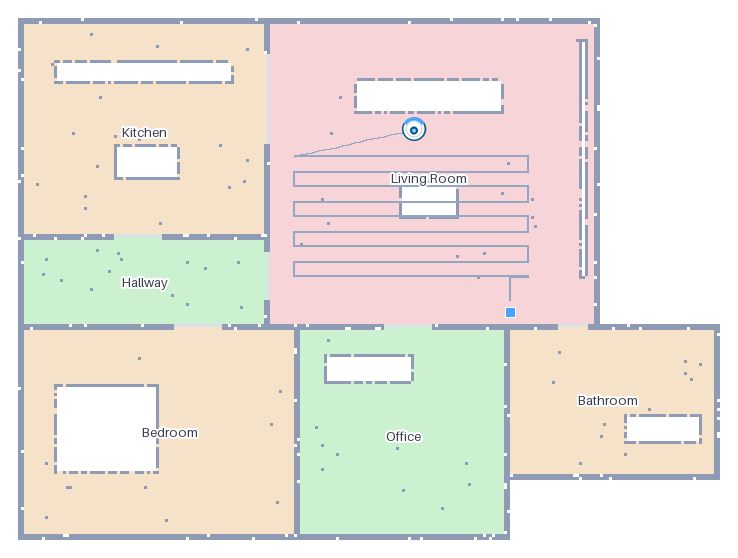
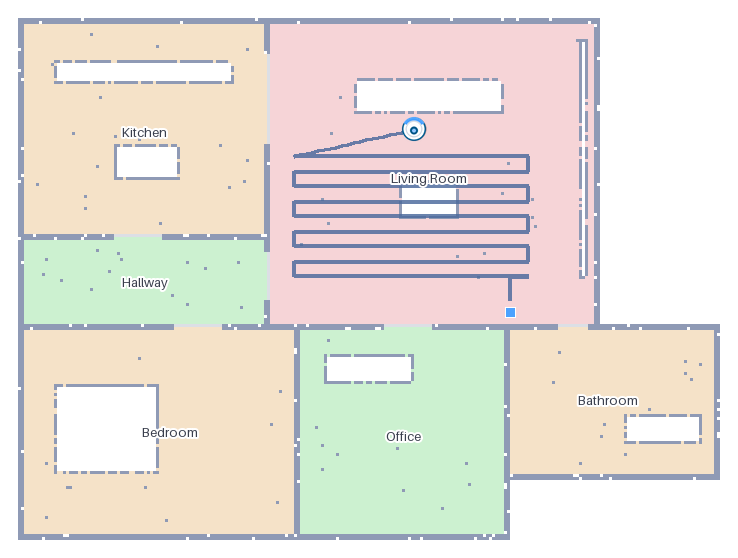
0.2.1: thicker cleaned-path line that never shows the card background through
The path is now 4 px and blended onto the map from its own layer. Before,
its 2 px line wrote a semi-transparent colour straight into the image, so a
dark dashboard showed through and the line looked almost black there.

Changed region(s): [[0.374, 0.2437, 0.7168, 0.5484]]

diff --git a/custom_components/eufy_clean_local/mapdata.py b/custom_components/eufy_clean_local/mapdata.py
@@ -63,6 +63,7 @@ DOCK = (0x4C, 0xA2, 0xFF)
 ROBOT = (0x00, 0x5D, 0x8E)
 HIGHLIGHT = (0x1E, 0x88, 0xE5)  # rooms being cleaned on the live map
 PATH = (0x4A, 0x68, 0x9C)  # the cleaned path; darker than the app's white so it shows on pastel rooms
+PATH_WIDTH = 4  # px on the SCALE-enlarged map
 LABEL = (0x3A, 0x3F, 0x4D, 255)
 SCALE = 3
 ROBOT_ICON_PX = 26  # drawn size of the robot icon on the map
@@ -408,14 +409,19 @@ class MapRenderer:
     def frame(self, pose: tuple[float, float] | None = None, path: list | None = None,
               fast: bool = False, rooms: tuple[int, ...] = ()) -> bytes:
         """One PNG: the cached floor plan plus the rooms being cleaned, path, room names, dock and robot."""
-        from PIL import ImageDraw, ImageFont
+        from PIL import Image, ImageDraw, ImageFont
 
         img = self.base.copy()
         if rooms and self.room_px is not None:
             img.alpha_composite(self.highlight(tuple(sorted(rooms))))
-        draw = ImageDraw.Draw(img)
         if path and len(path) > 1:
-            draw.line([self.to_px(x, y) for x, y in path], fill=PATH + (150,), width=2, joint="curve")
+            # Drawn on its own layer and blended, so overlaps stay one even tint and the
+            # dashboard's background never shows through the line.
+            trail = Image.new("RGBA", img.size, (0, 0, 0, 0))
+            ImageDraw.Draw(trail).line([self.to_px(x, y) for x, y in path], fill=PATH + (210,),
+                                       width=PATH_WIDTH, joint="curve")
+            img.alpha_composite(trail)
+        draw = ImageDraw.Draw(img)
         if self.labels:
             try:
                 font = ImageFont.load_default(size=13)

diff --git a/tests/test_integration.py b/tests/test_integration.py
@@ -446,9 +446,22 @@ def test_path_records_decode() -> None:
     assert mapdata.decode_path(b"") == [] and mapdata.decode_path(None) == []
 
     snap = synthetic_snapshot()
-    snap.raw[mapdata.CH_PATH] = b"".join(record(x, 0) for x in range(-80, 80, 10))
+    snap.raw[mapdata.CH_PATH] = b"".join(record(x, -40) for x in range(-80, 80, 10))  # clear of the labels
     plain = synthetic_snapshot().render_png()
     assert snap.path() and snap.render_png() != plain  # the trail is drawn
+
+    import io
+
+    from PIL import Image
+
+    with_path = Image.open(io.BytesIO(snap.render_png())).convert("RGBA")
+    without = Image.open(io.BytesIO(plain)).convert("RGBA")
+    changed = [(x, y) for x in range(with_path.width) for y in range(with_path.height)
+               if with_path.getpixel((x, y)) != without.getpixel((x, y))]
+    # Blended over the map, so the dashboard's background never shows through the line.
+    assert all(with_path.getpixel(p)[3] >= without.getpixel(p)[3] for p in changed)
+    mid = sorted(changed)[len(changed) // 2][0]
+    assert sum(1 for x, _ in changed if x == mid) >= mapdata.PATH_WIDTH  # drawn PATH_WIDTH px thick
 
 
 def test_robot_icon_turns_with_the_heading() -> None:
